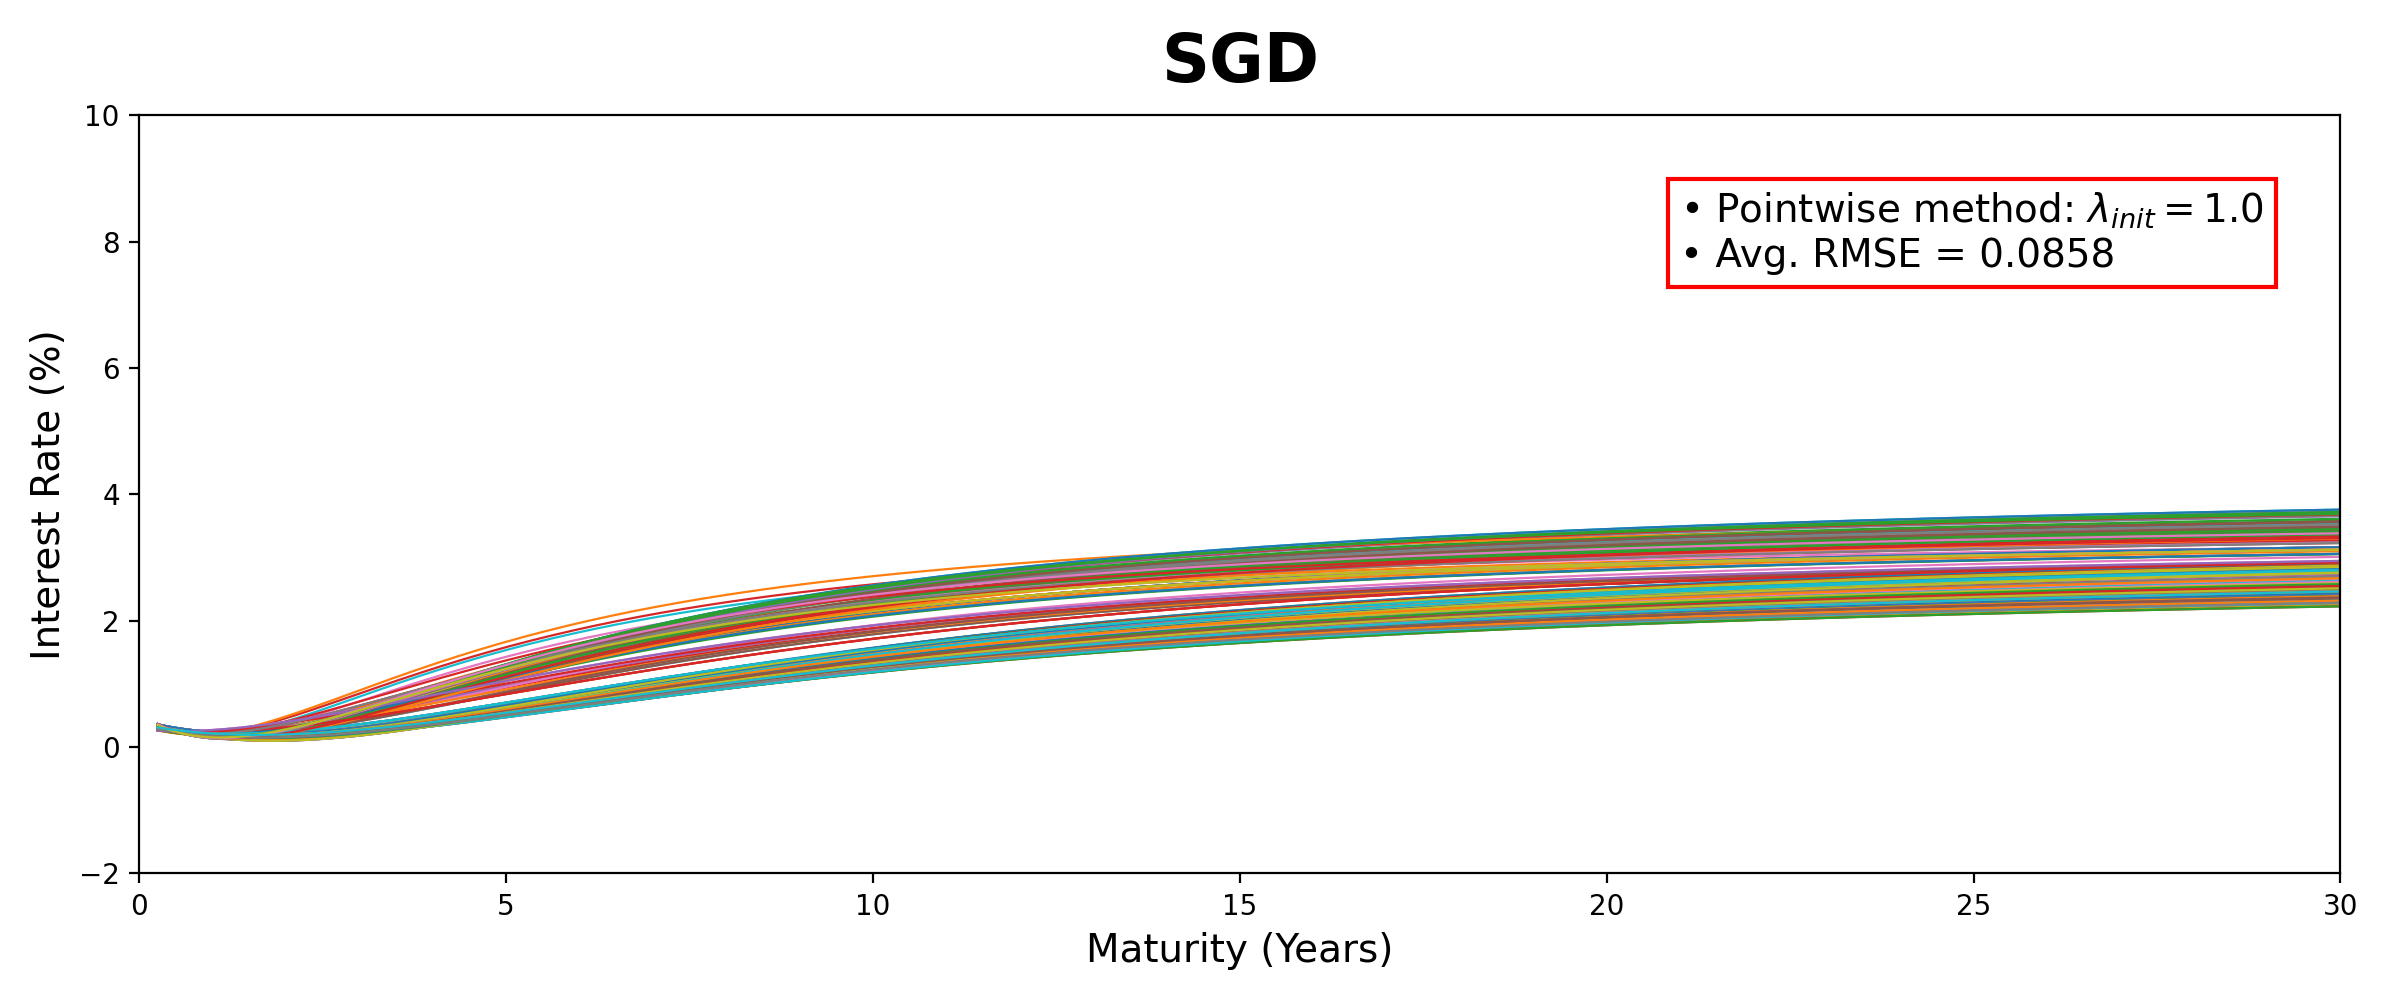
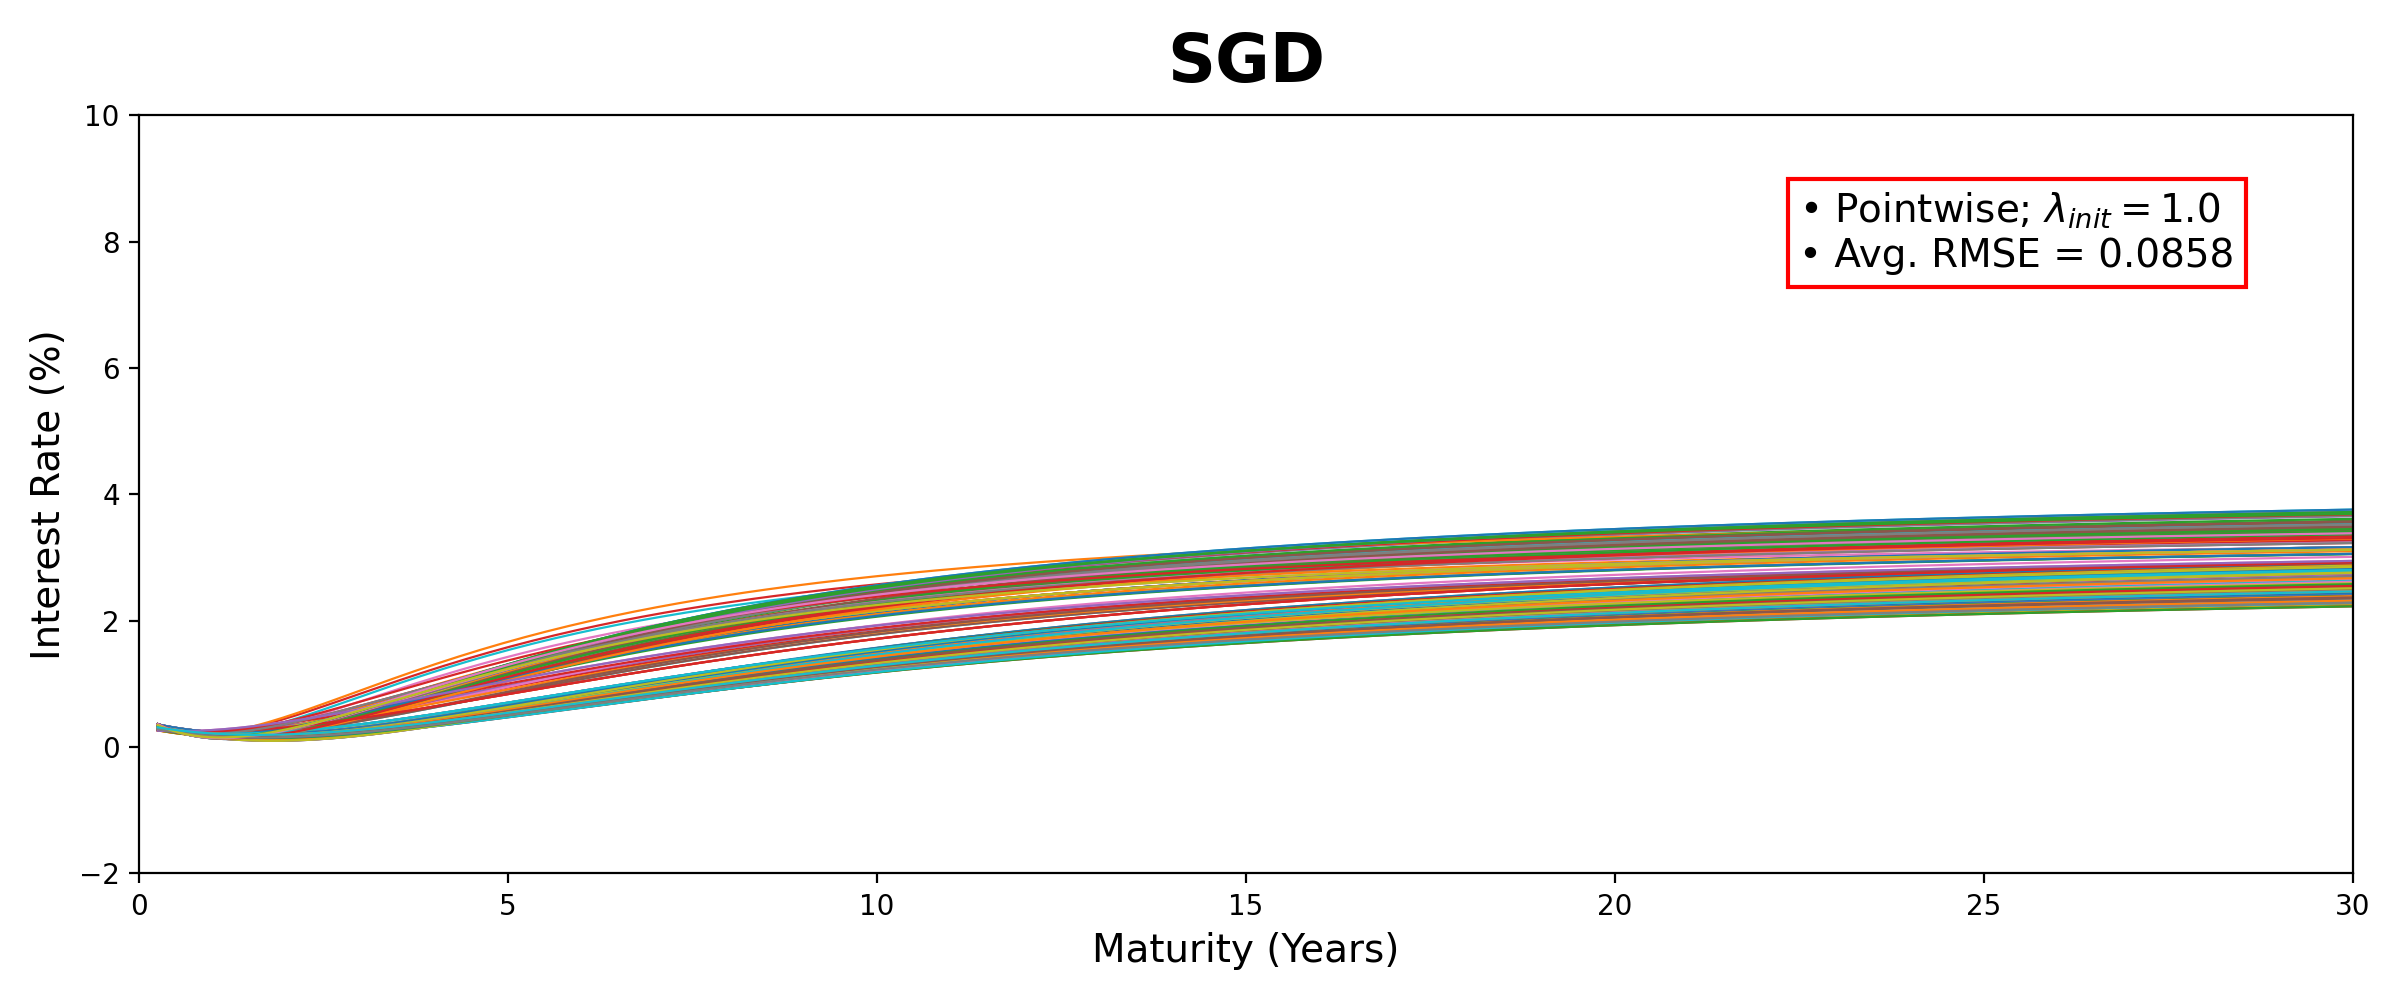
pls save

diff --git a/Chapter 2/parametric_models/yplot_ns_pointwise.py b/Chapter 2/parametric_models/yplot_ns_pointwise.py
@@ -39,12 +39,12 @@ def yield_curves_plot(maturities_years, fitted_curves, rmse_values, title, save_
 
     avg_rmse = float(np.nanmean(rmse_values))
     info = (
-        r"• Pointwise method: $\lambda_{init}=1.0$"
+        r"• Pointwise; $\lambda_{init}=1.0$"
         "\n"
         f"• Avg. RMSE = {avg_rmse:.4f}"
     )
     ax.text(
-        0.70, 0.80, info,
+        0.75, 0.80, info,
         transform=ax.transAxes,
         fontsize=14,
         bbox=dict(boxstyle="square", facecolor="white", edgecolor="red", linewidth=1.5)

diff --git a/Chapter 2/Generated Yield Curve Plots/yc_plots_ns_grid_search/yplot_ns_grid_search.py b/Chapter 2/Generated Yield Curve Plots/yc_plots_ns_grid_search/yplot_ns_grid_search.py
@@ -45,7 +45,7 @@ def yield_curves_plot(maturities_years, fitted_curves, rmse_values, title, save_
         f"• Avg. RMSE = {avg_rmse:.4f}"
     )
     ax.text(
-        0.60, 0.80, info,
+        0.70, 0.80, info,
         transform=ax.transAxes,
         fontsize=14,
         bbox=dict(boxstyle="square", facecolor="white", edgecolor="red", linewidth=1.5)
